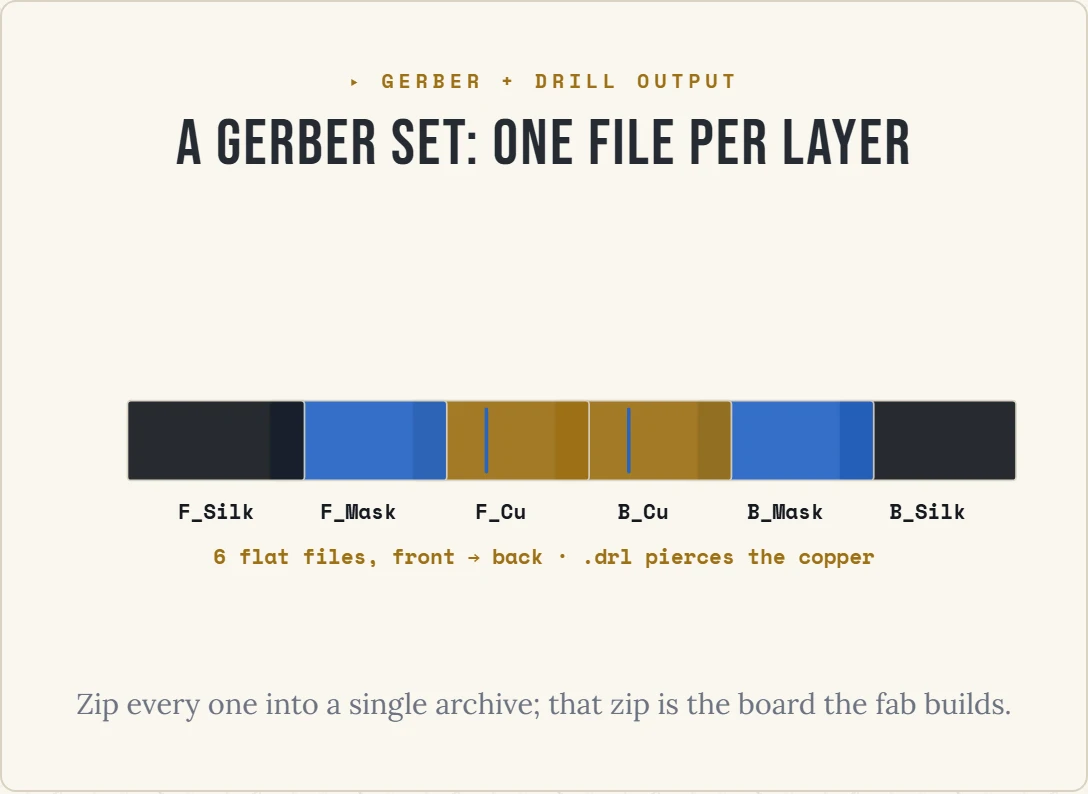
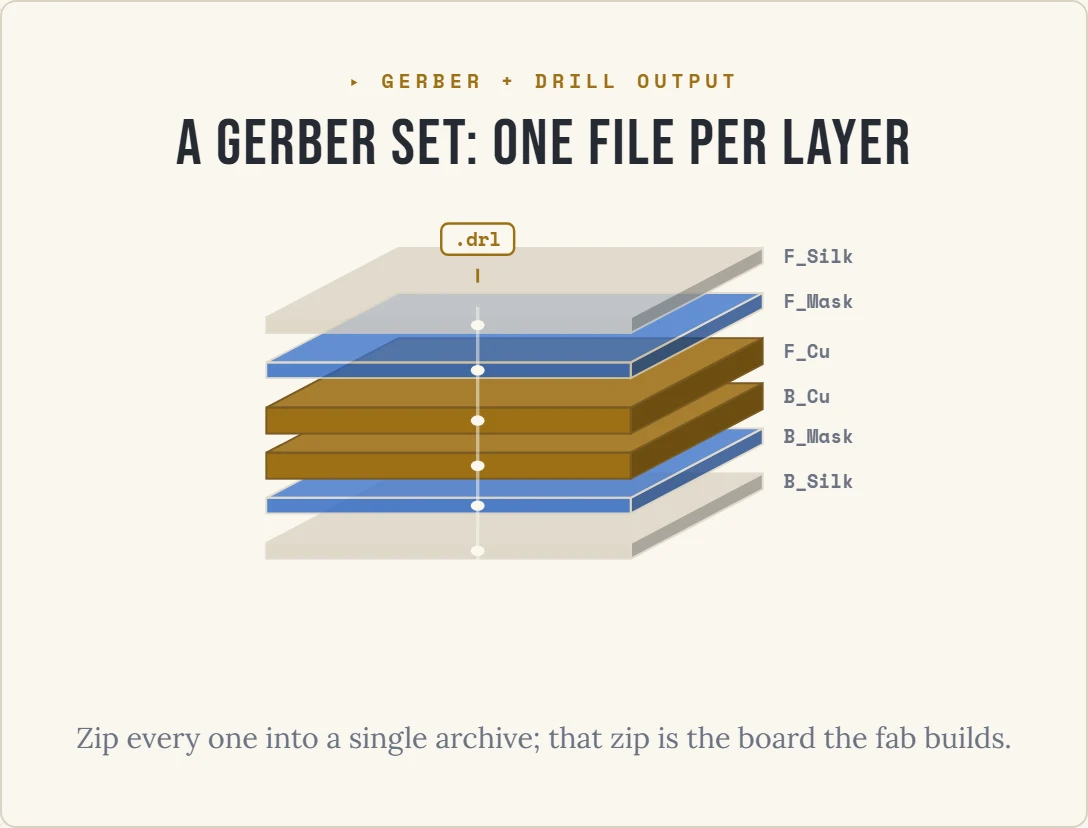
fix(diagrams): rebuild gerber-layer-stack as a correct exploded iso stack (#234)
Replace the broken semi-transparent flat-sheet gerber diagram with an exploded
isometric stack in correct physical order: F_Silk, F_Mask, F_Cu, B_Cu, B_Mask,
B_Silk. Copper solid opaque metal; silk and mask thin translucent films; the .drl
drill file punches a hole through every layer. Verified dark web, light web, print.

diff --git a/src/components/guide/diagrams/GerberLayerStack.tsx b/src/components/guide/diagrams/GerberLayerStack.tsx
@@ -1,133 +1,129 @@
 // The Gerber + drill output set as a responsive diagram (v2).
 //
 // Teaching point: "export gerbers" produces one flat file per fabrication layer.
-// Desktop/print show them as a landscape spread of sheets, front to back
-// (F_Silkscreen, F_Mask, F_Cu, B_Cu, B_Mask, B_Silkscreen); a separate .drl
-// drill file pierces the two copper layers. Zip the set and that archive IS the
-// board the fab builds.
+// Desktop/print show them as an exploded isometric stack in physical order, front
+// on top to back on bottom: F_Silk, F_Mask, F_Cu, B_Cu, B_Mask, B_Silk. A separate
+// .drl drill file punches a hole down through every layer. Zip the set and that
+// archive IS the board the fab builds.
 //
-// v2: token-only color (the old version used presentation-attribute hex + a
-// literal `#fff` silk swatch, so it could not re-theme in light mode). Landscape
-// SVG spread on desktop/print; on a phone it reflows to stacked full-width rows
-// whose labels stay real CSS px (never shrinking under the ~14px floor) rather
-// than scaling the whole spread down to unreadable.
+// Layer materials (owner's rule): the two COPPER layers are solid metal, drawn
+// fully OPAQUE and a touch thicker; the SILK and MASK layers are thin coatings,
+// drawn as translucent films. Copper's edge is shaded (form), not translucent.
 //
-// BRAND: gold-dominant on Deep Space. Copper = gold, mask = Signal Blue, silk =
-// Title (ivory on dark, ink on light), the drill pierce = Signal Blue. Every
-// colour via @theme tokens with literal fallbacks.
+// v2: landscape isometric spread on desktop/print; on a phone it reflows to stacked
+// full-width rows whose labels stay real CSS px (never shrinking under the floor).
+// Token-only color via scoped CSS classes (never a fill="#…" presentation attr that
+// can't read a var and would break in light). Two intentional FIXED values: the
+// pale silkscreen (#d7d0bf, so it reads as white ink on BOTH the deep-space and
+// ivory fields — a token would flip to ink-black on ivory) and copper's shaded
+// edge (#7a5a22) — both are physical-material colours, the same exception the
+// two-layer cross-section uses.
 import { type CSSProperties } from "react";
 import { DiagramFrame } from "./DiagramFrame";
 
-type Sheet = { name: string; kind: "silk" | "mask" | "cu"; drill?: boolean };
-
-// Front-to-back, exactly as the fab stacks them.
-const SHEETS: Sheet[] = [
+// Front-to-back = top-to-bottom, exactly as the board stacks (silk outermost,
+// the two coppers innermost).
+type Kind = "silk" | "mask" | "cu";
+const T2B: { name: string; kind: Kind }[] = [
   { name: "F_Silk", kind: "silk" },
   { name: "F_Mask", kind: "mask" },
-  { name: "F_Cu", kind: "cu", drill: true },
-  { name: "B_Cu", kind: "cu", drill: true },
+  { name: "F_Cu", kind: "cu" },
+  { name: "B_Cu", kind: "cu" },
   { name: "B_Mask", kind: "mask" },
   { name: "B_Silk", kind: "silk" },
 ];
 
 // Phone rows carry the full filename + a plain-language gloss.
-const ROWS: { name: string; desc: string; kind: Sheet["kind"]; drill?: boolean }[] = [
+const ROWS: { name: string; desc: string; kind: Kind }[] = [
   { name: "F_Silkscreen.gbr", desc: "the white labels", kind: "silk" },
   { name: "F_Mask.gbr", desc: "solder mask, open at the pads", kind: "mask" },
-  { name: "F_Cu.gbr", desc: "front copper, your traces", kind: "cu", drill: true },
-  { name: "B_Cu.gbr", desc: "back copper, ground plane", kind: "cu", drill: true },
+  { name: "F_Cu.gbr", desc: "front copper, your traces", kind: "cu" },
+  { name: "B_Cu.gbr", desc: "back copper, the ground plane", kind: "cu" },
   { name: "B_Mask.gbr", desc: "solder mask, open at the pads", kind: "mask" },
   { name: "B_Silkscreen.gbr", desc: "the white labels", kind: "silk" },
 ];
 
-// Spread geometry (0..560 landscape space).
-const X0 = 40;
-const OX = 82; // step between sheet left edges
-const DW = 102; // sheet width
-const H = 46; // sheet height (a real rectangle, not a skewed slab)
-const Y0 = 96; // sheet top
+// ── isometric geometry (0..560 landscape space) ────────────────────────────────
+const X = 120, Y0 = 48, W = 210, DX = 76, DY = 40, GAP = 26;
+const TC = 15, TF = 9; // copper thicker (solid metal); films thin
+const topP = (x: number, y: number, w: number) => `M${x},${y} l${DX},-${DY} h${w} l-${DX},${DY} Z`;
+const sideP = (x: number, y: number, w: number, h: number) => `M${x + w},${y} l${DX},-${DY} v${h} l-${DX},${DY} Z`;
+
+function slab(y: number, kind: Kind): string {
+  const cu = kind === "cu";
+  const T = cu ? TC : TF;
+  const fill = `gls-${kind}`;
+  const edge = cu ? "gls-edge-cu" : "gls-edge-film";
+  return (
+    (cu ? "" : `<g opacity="0.78">`) +
+    `<path class="${fill}" d="${sideP(X, y, W, T)}"/>` +
+    `<path class="gls-shade" d="${sideP(X, y, W, T)}"/>` +
+    `<rect class="${fill}" x="${X}" y="${y}" width="${W}" height="${T}"/>` +
+    `<path class="${fill}" d="${topP(X, y, W)}"/>` +
+    `<path class="gls-lit" d="${topP(X, y, W)}"/>` +
+    `<rect class="${edge}" x="${X}" y="${y}" width="${W}" height="${T}" fill="none"/>` +
+    `<path class="${edge}" d="${topP(X, y, W)}" fill="none"/>` +
+    `<path class="${edge}" d="${sideP(X, y, W, T)}" fill="none"/>` +
+    (cu ? "" : `</g>`)
+  );
+}
+
+// Static, module-constant markup (no props / no user input) — safe to inject.
+function buildMarkup(): string {
+  const ys = T2B.map((_, j) => Y0 + j * GAP);
+  const tOf = (j: number) => (T2B[j].kind === "cu" ? TC : TF);
+  let g = "";
+  // slabs: bottom→top so upper layers overlap lower
+  for (let j = T2B.length - 1; j >= 0; j--) g += slab(ys[j], T2B[j].kind);
+  // drill: one hole punched through every layer, along a single bit path
+  const sx = X + W * 0.58;
+  g += `<line class="gls-bit" x1="${sx}" y1="${ys[0] - 6}" x2="${sx}" y2="${ys[5] + TF + 6}"/>`;
+  ys.forEach((y, j) => (g += `<ellipse class="gls-hole" cx="${sx}" cy="${y + tOf(j) / 2}" rx="4" ry="3"/>`));
+  // .drl file tag: an outlined gold pill above the stack, on a short leader
+  const ty = ys[0] - DY / 2, ry = ty - 16, ph = 18, pw = 42;
+  g += `<line class="gls-drl-line" x1="${sx}" y1="${ty}" x2="${sx}" y2="${ty - 8}"/>`;
+  g += `<rect class="gls-drl-pill" x="${sx - pw / 2}" y="${ry - ph}" width="${pw}" height="${ph}" rx="4"/>`;
+  g += `<text class="gls-drl-text" x="${sx}" y="${ry - ph / 2 + 4}" text-anchor="middle">.drl</text>`;
+  // layer names, right of each slab
+  ys.forEach((y, j) => (g += `<text class="gls-nm" x="${X + W + DX + 12}" y="${y - DY + tOf(j) / 2 + 4}">${T2B[j].name}</text>`));
+  return g;
+}
+const MARKUP = buildMarkup();
 
 export function GerberLayerStack({ caption }: { caption?: string }) {
-  // Front sheet draws on top: render right-to-back so F_Silk (leftmost, front)
-  // overlaps the sheet behind it. Names/drill draw after, so nothing occludes.
-  const order = SHEETS.map((_, i) => i).reverse();
-
   return (
     <DiagramFrame
       eyebrow="GERBER + DRILL OUTPUT"
       tone="gold"
       title="A Gerber set: one file per layer"
-      ariaLabel="A Gerber set is one flat file per layer, spread front to back: F_Silk (the white labels), F_Mask (solder mask, open at the pads), F_Cu (front copper, your traces), B_Cu (back copper, ground plane), B_Mask, and B_Silk. A separate drill file, .drl, pierces the two copper layers. Zip every file into a single archive; that zip is the board the fab builds."
+      ariaLabel="A Gerber set drawn as an exploded isometric stack in physical order, front layer on top to back layer on bottom: F_Silk (the white labels), F_Mask (solder mask, open at the pads), F_Cu (front copper, your traces), B_Cu (back copper, the ground plane), B_Mask, and B_Silk. The two copper layers are solid metal; the silk and mask layers are thin films. A separate drill file, .drl, punches a hole straight down through every layer. Zip all of them into one archive; that zip is the board the fab builds."
       caption={caption}
       defaultCaption="Zip every one into a single archive; that zip is the board the fab builds."
     >
       <style>{CSS}</style>
 
-      {/* Desktop / print: landscape spread of flat rectangular sheets */}
-      <svg
-        className="gerb-svg gerb-wide"
-        viewBox="0 0 560 230"
-        preserveAspectRatio="xMidYMid meet"
-        aria-hidden="true"
-      >
-        {order.map((i) => {
-          const s = SHEETS[i];
-          const x = X0 + i * OX;
-          return (
-            <rect
-              key={`sh-${s.name}`}
-              className={`gerb-sheet gerb-${s.kind}`}
-              x={x}
-              y={Y0}
-              width={DW}
-              height={H}
-              rx="2"
-              style={{ "--d": `${0.32 + (SHEETS.length - 1 - i) * 0.07}s` } as CSSProperties}
-            />
-          );
-        })}
-        {SHEETS.map((s, i) => {
-          const x = X0 + i * OX;
-          return (
-            <g key={`nm-${s.name}`}>
-              {s.drill ? (
-                <line
-                  className="gerb-drill"
-                  x1={x + DW * 0.42}
-                  y1={Y0 + 5}
-                  x2={x + DW * 0.42}
-                  y2={Y0 + H - 5}
-                />
-              ) : null}
-              <text className="gerb-nm" x={x + DW / 2} y={Y0 + H + 22}>
-                {s.name}
-              </text>
-            </g>
-          );
-        })}
-        <text className="gerb-cap" x="280" y={Y0 + H + 48}>
-          6 flat files, front → back · .drl pierces the copper
-        </text>
+      {/* Desktop / print: exploded isometric stack */}
+      <svg className="gls-svg gls-wide" viewBox="0 0 560 250" preserveAspectRatio="xMidYMid meet" aria-hidden="true">
+        <g dangerouslySetInnerHTML={{ __html: MARKUP }} />
       </svg>
 
       {/* Phone: reflow to stacked full-width rows (labels stay readable px) */}
-      <ol className="gerb-narrow gerb-list">
+      <ol className="gls-narrow gls-list">
         {ROWS.map((r, i) => (
           <li
             key={r.name}
-            className={`gerb-row gerb-row-${r.kind}`}
-            style={{ "--d": `${0.32 + i * 0.07}s` } as CSSProperties}
+            className={`gls-row gls-row-${r.kind}`}
+            style={{ "--d": `${0.3 + i * 0.07}s` } as CSSProperties}
           >
-            <span className="gerb-swatch" aria-hidden="true" />
-            <span className="gerb-rowbody">
-              <span className="gerb-rowname">{r.name}</span>
-              <span className="gerb-rowdesc">{r.desc}</span>
+            <span className="gls-swatch" aria-hidden="true" />
+            <span className="gls-rowbody">
+              <span className="gls-rowname">{r.name}</span>
+              <span className="gls-rowdesc">{r.desc}</span>
             </span>
-            {r.drill ? <span className="gerb-rowdrill" aria-hidden="true" /> : null}
           </li>
         ))}
-        <li className="gerb-note">
-          <span className="gerb-notetag">.drl</span>a separate <b>drill file</b> pierces the copper
+        <li className="gls-note">
+          <span className="gls-notetag">.drl</span>a separate <b>drill file</b> punches a hole through every layer
         </li>
       </ol>
     </DiagramFrame>
@@ -135,57 +131,61 @@ export function GerberLayerStack({ caption }: { caption?: string }) {
 }
 
 const CSS = `
-.gerb-svg{display:block;width:100%;height:auto;overflow:visible;}
-.gerb-sheet{stroke:var(--color-panel-border,#3a3f50);stroke-width:1;opacity:.92;}
-.gerb-silk{fill:var(--color-title,#f1ece0);}
-.gerb-mask{fill:var(--color-signal-blue,#4a8fff);}
-.gerb-cu{fill:var(--color-command-gold,#c8963e);}
-.gerb-drill{fill:none;stroke:var(--color-signal-blue,#4a8fff);stroke-width:2;stroke-linecap:round;}
-.gerb-nm{fill:var(--color-title,#f1ece0);font-family:var(--font-mono,"Space Mono",monospace);
-  font-size:12px;font-weight:700;text-anchor:middle;}
-.gerb-cap{fill:var(--color-command-gold,#c8963e);font-family:var(--font-mono,"Space Mono",monospace);
-  font-size:12px;font-weight:700;text-anchor:middle;}
+.gls-svg{display:block;width:100%;height:auto;overflow:visible;}
+
+/* layer fills: mask + copper are tokens (re-theme); silk is a fixed pale material
+   (a token would flip to ink-black on the ivory page); shading/lit are fixed. */
+.gls-silk{fill:#d7d0bf;}
+.gls-mask{fill:var(--color-signal-blue,#4a8fff);}
+.gls-cu{fill:var(--color-command-gold,#c8963e);}
+.gls-shade{fill:#000000;opacity:.30;}
+.gls-lit{fill:#ffffff;opacity:.10;}
+.gls-edge-film{stroke:var(--color-panel-border,#3a3f50);stroke-width:1.1;}
+.gls-edge-cu{stroke:#7a5a22;stroke-width:1.1;}
+
+/* drill: dark void holes + faint bit path; .drl as an outlined gold file tag */
+.gls-hole{fill:var(--color-deep-space,#08090d);}
+.gls-bit{stroke:var(--color-deep-space,#08090d);stroke-opacity:.5;stroke-width:2;}
+.gls-drl-line{stroke:var(--color-command-gold,#c8963e);stroke-width:1.6;}
+.gls-drl-pill{fill:var(--color-deep-space,#08090d);stroke:var(--color-command-gold,#c8963e);stroke-width:1.4;}
+.gls-drl-text{fill:var(--color-command-gold,#c8963e);font-family:var(--font-mono,"Space Mono",monospace);font-size:11px;font-weight:700;}
+.gls-nm{fill:var(--color-muted,#aaa);font-family:var(--font-mono,"Space Mono",monospace);font-size:11px;font-weight:700;}
 
 /* phone rows (hidden ≥521px) */
-.gerb-narrow{display:none;}
-.gerb-list{list-style:none;margin:0;padding:0;text-align:left;}
-.gerb-row{position:relative;display:flex;align-items:center;gap:.85rem;
+.gls-narrow{display:none;}
+.gls-list{list-style:none;margin:0;padding:0;text-align:left;}
+.gls-row{position:relative;display:flex;align-items:center;gap:.85rem;
   background:var(--color-navy-dark,#1f2438);border:1px solid var(--color-panel-border,#3a3f50);
   border-radius:5px;padding:.7rem .85rem;overflow:hidden;}
-.gerb-swatch{flex:0 0 auto;width:10px;align-self:stretch;border-radius:2px;background:var(--color-muted,#aaa);}
-.gerb-rowbody{display:flex;flex-direction:column;gap:.18rem;min-width:0;}
-.gerb-rowname{color:var(--color-title,#f1ece0);font-weight:700;font-size:clamp(1.05rem,3vw,1.25rem);letter-spacing:.01em;}
-.gerb-rowdesc{color:var(--color-muted,#aaa);font-size:clamp(.95rem,2.5vw,1.05rem);line-height:1.35;}
-.gerb-row-silk .gerb-swatch{background:var(--color-title,#f1ece0);}
-.gerb-row-mask .gerb-swatch{background:var(--color-signal-blue,#4a8fff);}
-.gerb-row-cu{border-color:var(--color-command-gold,#c8963e);}
-.gerb-row-cu .gerb-swatch{background:var(--color-command-gold,#c8963e);}
-.gerb-row-cu .gerb-rowname{color:var(--color-gold-light,#e8b865);}
-.gerb-rowdrill{position:absolute;right:14px;top:50%;width:13px;height:13px;margin-top:-6.5px;
-  border-radius:50%;background:var(--color-deep-space,#08090d);border:2px solid var(--color-signal-blue,#4a8fff);}
-.gerb-note{margin:.5rem 0 0;padding:0 .1rem;list-style:none;text-align:left;
+.gls-swatch{flex:0 0 auto;width:10px;align-self:stretch;border-radius:2px;background:var(--color-muted,#aaa);}
+.gls-rowbody{display:flex;flex-direction:column;gap:.18rem;min-width:0;}
+.gls-rowname{color:var(--color-title,#f1ece0);font-weight:700;font-size:clamp(1.05rem,3vw,1.25rem);letter-spacing:.01em;}
+.gls-rowdesc{color:var(--color-muted,#aaa);font-size:clamp(.95rem,2.5vw,1.05rem);line-height:1.35;}
+.gls-row-silk .gls-swatch{background:#d7d0bf;}
+.gls-row-mask .gls-swatch{background:var(--color-signal-blue,#4a8fff);}
+.gls-row-cu{border-color:var(--color-command-gold,#c8963e);}
+.gls-row-cu .gls-swatch{background:var(--color-command-gold,#c8963e);}
+.gls-row-cu .gls-rowname{color:var(--color-gold-light,#e8b865);}
+.gls-note{margin:.5rem 0 0;padding:0 .1rem;list-style:none;text-align:left;
   color:var(--color-muted,#aaa);font-size:clamp(.9rem,2.4vw,1rem);line-height:1.5;}
-.gerb-note b{color:var(--color-signal-blue,#4a8fff);font-weight:700;}
-.gerb-notetag{color:var(--color-signal-blue,#4a8fff);font-weight:700;font-size:.62rem;letter-spacing:.12em;
-  border:1px solid var(--color-signal-blue,#4a8fff);border-radius:3px;padding:.18rem .4rem;margin-right:.5rem;white-space:nowrap;}
+.gls-note b{color:var(--color-command-gold,#c8963e);font-weight:700;}
+.gls-notetag{color:var(--color-command-gold,#c8963e);font-weight:700;font-size:.62rem;letter-spacing:.12em;
+  border:1px solid var(--color-command-gold,#c8963e);border-radius:3px;padding:.18rem .4rem;margin-right:.5rem;white-space:nowrap;}
 
 @media (max-width:520px){
-  .gerb-wide{display:none;}
-  .gerb-narrow{display:flex;flex-direction:column;gap:5px;}
+  .gls-wide{display:none;}
+  .gls-narrow{display:flex;flex-direction:column;gap:5px;}
 }
 
-/* Tier-B reveal (docs/diagrams/animation-standards.md): sheets settle in front
-   to back; gated behind .armed so reduced-motion / no-JS shows the full static
-   spread. The exporter forces reduced-motion, so the raster is the final state. */
-.dgfrm.armed .gerb-sheet,.dgfrm.armed .gerb-row{opacity:0;}
-.dgfrm.armed .gerb-sheet{transform:translateY(-6px);transform-box:fill-box;}
-.dgfrm.armed .gerb-row{transform:translateY(-6px);}
-.dgfrm.armed.in .gerb-sheet{opacity:.92;transform:none;
-  transition:opacity .5s cubic-bezier(.2,.7,.2,1),transform .5s cubic-bezier(.2,.7,.2,1);transition-delay:var(--d,0s);}
-.dgfrm.armed.in .gerb-row{opacity:1;transform:none;
+/* Tier-B reveal: the stack fades in; the phone rows settle front to back. Gated
+   behind .armed so reduced-motion / the exporter render shows the final state. */
+.dgfrm.armed .gls-svg{opacity:0;}
+.dgfrm.armed.in .gls-svg{opacity:1;transition:opacity .6s ease;}
+.dgfrm.armed .gls-row{opacity:0;transform:translateY(-6px);}
+.dgfrm.armed.in .gls-row{opacity:1;transform:none;
   transition:opacity .5s cubic-bezier(.2,.7,.2,1),transform .5s cubic-bezier(.2,.7,.2,1);transition-delay:var(--d,0s);}
 @media (prefers-reduced-motion:reduce){
-  .dgfrm .gerb-sheet{opacity:.92!important;transform:none!important;transition:none!important;}
-  .dgfrm .gerb-row{opacity:1!important;transform:none!important;transition:none!important;}
+  .dgfrm .gls-svg{opacity:1!important;transition:none!important;}
+  .dgfrm .gls-row{opacity:1!important;transform:none!important;transition:none!important;}
 }
 `;
